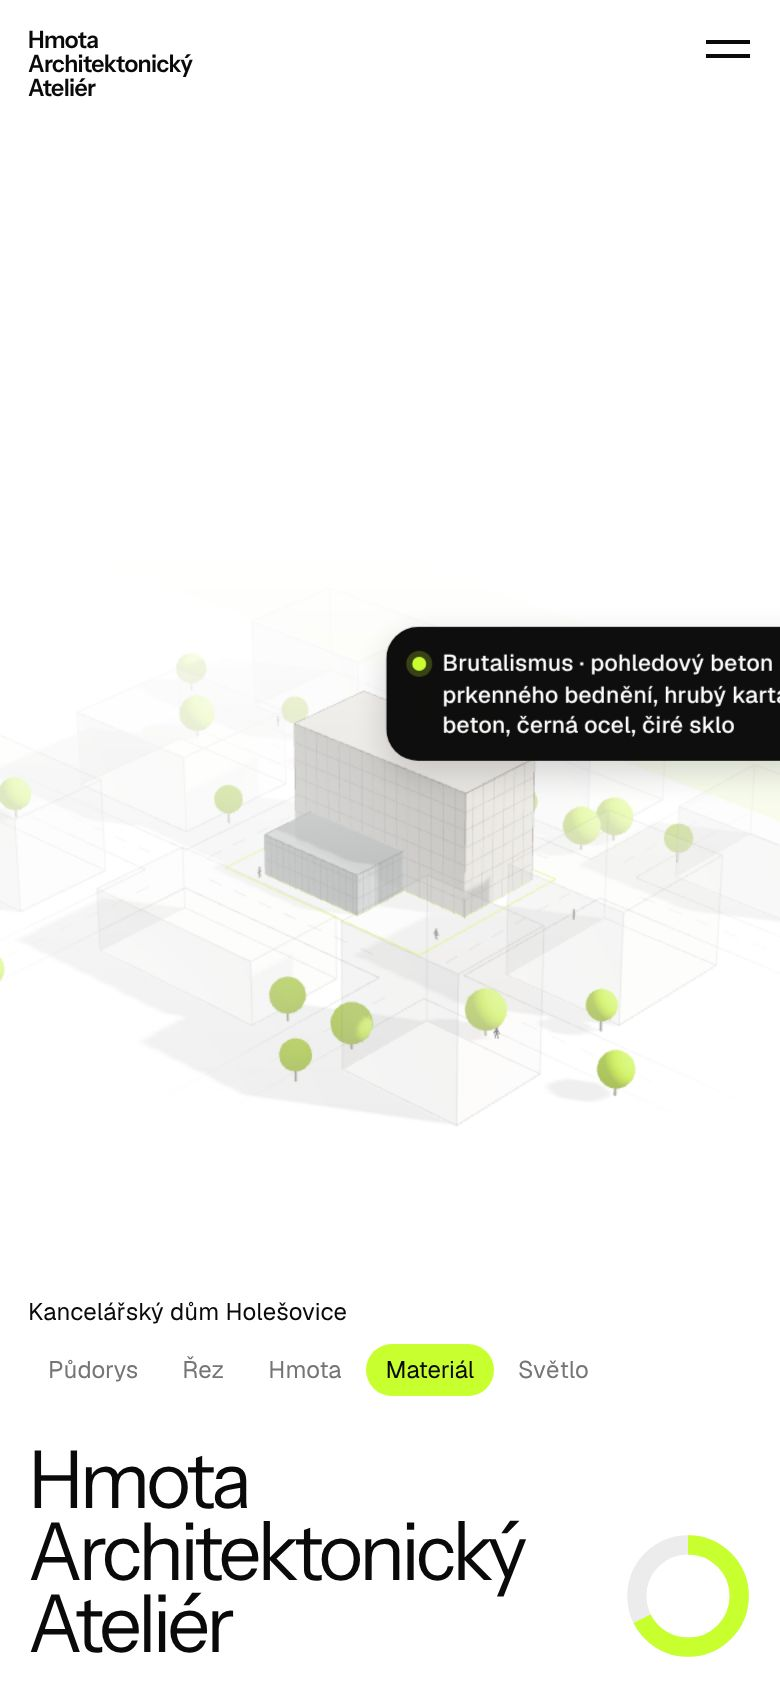
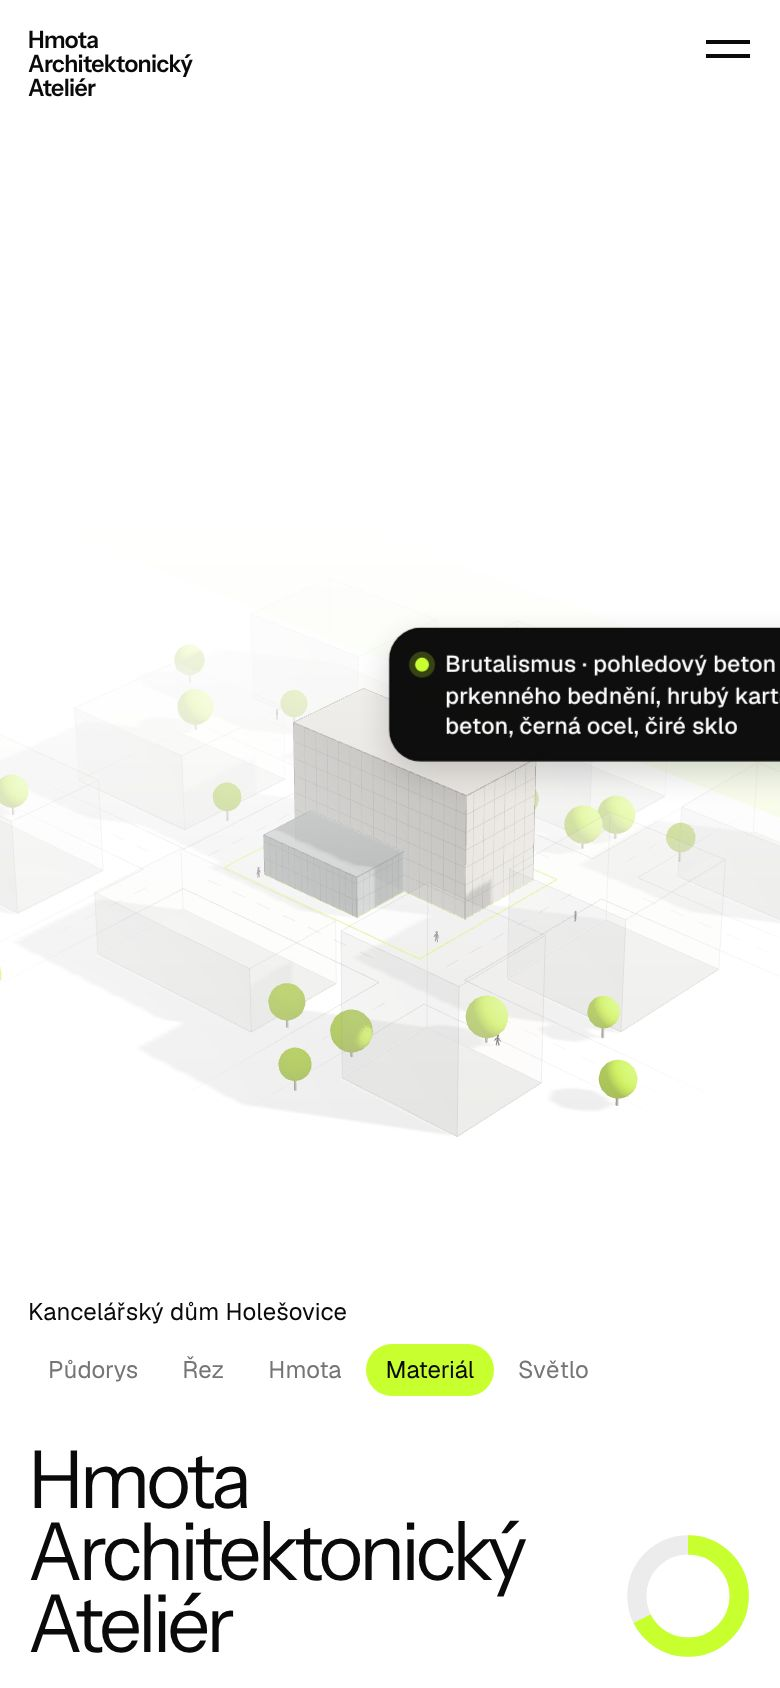
Hero: short loader while the 3D warms up; sharper; shadows cover the street
- Replace the stand-in stills with a brief loader (lime ring) that holds
  the page at the top while the 3D loads and plays every stage once behind
  it, so all shaders, shadow and material variants are compiled before the
  first scroll: no first-time stutter. Lifts after 12 s at most.
- Render at up to 2x device pixel ratio
- Shadow frustum ±46 with a 4096 map (2048 on phones): shadows no longer
  end in a white band near the edge of the view

Claude-Session: https://claude.ai/code/session_01Tmbk2gHDA56J7bBaFsfwrH

diff --git a/src/components/hero/HeroScene.tsx b/src/components/hero/HeroScene.tsx
@@ -647,7 +647,14 @@ function Site({ massing, stages }: { massing: Volume[]; stages: MutableRefObject
   );
 }
 
-function Rig({ progress }: { progress: MutableRefObject<number> }) {
+function Rig({
+  progress,
+  snap,
+}: {
+  progress: MutableRefObject<number>;
+  /** while true the camera jumps straight to its target (warm-up behind the loader) */
+  snap: MutableRefObject<boolean>;
+}) {
   const { camera, size, invalidate } = useThree();
   // portrait screens need the camera further back to keep the building in frame
   const aspect = size.width / Math.max(1, size.height);
@@ -662,7 +669,8 @@ function Rig({ progress }: { progress: MutableRefObject<number> }) {
     const t1 = easeIO(range(p, 0.18, 0.46));
     const t2 = easeIO(range(p, 0.78, 1));
     tmp.copy(top).lerp(axo, t1).lerp(close, t2).multiplyScalar(fit);
-    camera.position.lerp(tmp, 0.12);
+    if (snap.current) camera.position.copy(tmp);
+    else camera.position.lerp(tmp, 0.12);
     if (camera.position.distanceToSquared(tmp) > 1e-6) invalidate();
     look.set(0, 0.6 * t1 + 0.4 * t2, 0);
     camera.lookAt(look);
@@ -717,13 +725,14 @@ function Sun({
       ref={light}
       castShadow
       intensity={1.2}
-      shadow-mapSize-width={small ? 1024 : 1536}
-      shadow-mapSize-height={small ? 1024 : 1536}
-      shadow-camera-left={-24}
-      shadow-camera-right={24}
-      shadow-camera-top={24}
-      shadow-camera-bottom={-24}
-      shadow-camera-far={80}
+      shadow-mapSize-width={small ? 2048 : 4096}
+      shadow-mapSize-height={small ? 2048 : 4096}
+      shadow-camera-left={-46}
+      shadow-camera-right={46}
+      shadow-camera-top={46}
+      shadow-camera-bottom={-46}
+      shadow-camera-near={0.5}
+      shadow-camera-far={140}
       shadow-bias={-0.00025}
       shadow-normalBias={0.004}
     />
@@ -731,18 +740,41 @@ function Sun({
 }
 
 /** turns scroll progress (plus a short intro on load) into the five stage values */
+// behind the loader the scene plays every stage once, so every shader, shadow and material
+// variant is compiled before the visitor can scroll: no first-time stutter later
+const WARM = [0.12, 0.3, 0.45, 0.55, 0.62, 0.7, 0.8, 0.9, 1, 0.5, 0];
+
 function Driver({
   progress,
   stages,
+  snap,
+  onReady,
 }: {
   progress: MutableRefObject<number>;
   stages: MutableRefObject<Stages>;
+  snap: MutableRefObject<boolean>;
+  onReady?: () => void;
 }) {
-  // on load the plan simply fades in (0.5 s); if the visitor already scrolled, the canvas fade
-  // is the whole intro and the model shows straight at the stage they scrolled to
-  const intro = useRef(progress.current > 0.02 ? 1 : 0);
+  const intro = useRef(0);
   const last = useRef(-1);
+  const warm = useRef(0);
+  const real = useRef(0);
   useFrame(({ gl, invalidate }, dt) => {
+    if (warm.current <= WARM.length) {
+      if (warm.current === 0) real.current = progress.current;
+      if (warm.current < WARM.length) {
+        progress.current = WARM[warm.current]!;
+        intro.current = 1;
+      } else {
+        // done: back to where the page really is, intro from the start, camera in place
+        progress.current = real.current;
+        intro.current = 0;
+        snap.current = false;
+        onReady?.();
+      }
+      warm.current++;
+      invalidate();
+    }
     if (intro.current < 1) {
       intro.current = Math.min(1, intro.current + Math.min(dt, 0.05) / 0.5);
       invalidate();
@@ -775,6 +807,7 @@ function Driver({
 }
 
 function HeroScene({ massing, labels, progress, active, onReady, onTime, kick }: HeroSceneProps) {
+  const snap = useRef(true);
   const stages = useRef<Stages>({
     draw: 0,
     main: 0,
@@ -792,7 +825,7 @@ function HeroScene({ massing, labels, progress, active, onReady, onTime, kick }:
     <Canvas
       className="hero-canvas"
       shadows
-      dpr={[1, 1.5]}
+      dpr={[1, 2]}
       frameloop={active ? "demand" : "never"}
       camera={{ fov: 30, near: 0.1, far: 300, position: [0.001, 30, 0.6] }}
       gl={{ antialias: true, alpha: false, powerPreference: "high-performance" }}
@@ -803,17 +836,16 @@ function HeroScene({ massing, labels, progress, active, onReady, onTime, kick }:
         gl.toneMapping = THREE.NeutralToneMapping;
         gl.shadowMap.autoUpdate = false;
         gl.shadowMap.needsUpdate = true;
-        onReady?.();
       }}
       aria-hidden="true"
     >
-      <Driver progress={progress} stages={stages} />
+      <Driver progress={progress} stages={stages} snap={snap} onReady={onReady} />
       <hemisphereLight args={["#ffffff", "#dcdcd6", 1.4]} />
       <Sun stages={stages} onTime={onTime} />
       <Ground stages={stages} />
       <Site massing={massing} stages={stages} />
       <Building massing={massing} stages={stages} labels={labels} />
-      <Rig progress={progress} />
+      <Rig progress={progress} snap={snap} />
     </Canvas>
   );
 }

diff --git a/src/components/hero/HeroModel.tsx b/src/components/hero/HeroModel.tsx
@@ -11,16 +11,11 @@ import {
 } from "react";
 import type { Volume } from "@/content/schema";
 import { ScrollTrigger, useGSAP, prefersReducedMotion } from "@/lib/motion";
+import { lockScroll } from "@/lib/scroll";
 
 const HeroScene = dynamic(() => import("./HeroScene"), { ssr: false });
 // start fetching the 3D as soon as this module runs, not after the page has hydrated
 if (typeof window !== "undefined") void import("./HeroScene");
-
-const BASE = process.env.NEXT_PUBLIC_BASE_PATH ?? "";
-/** stills of the scene at 0 %, 10 % … 100 % of the scroll (scripts/hero-frames.py) */
-const frameSrc = (kind: "d" | "m", i: number) =>
-  `${BASE}/hero/${kind}${String(i).padStart(2, "0")}.webp`;
-const FRAME_HTML = `<picture><source media="(max-width: 767px)" srcset="${frameSrc("m", 0)}"><img src="${frameSrc("d", 0)}" alt="" decoding="async" fetchpriority="high"></picture><script>(function(){try{history.scrollRestoration="manual"}catch(e){}var t=function(){window.__heroTouched=1};["wheel","touchmove","keydown"].forEach(function(e){addEventListener(e,t,{passive:true,once:true})});var s=document.currentScript,h=s.closest(".hero"),img=s.previousElementSibling.querySelector("img"),so=s.previousElementSibling.querySelector("source"),last=0;function u(){var span=h.offsetHeight-innerHeight;var p=Math.min(1,Math.max(0,(scrollY-h.offsetTop)/span));var i=Math.round(p*10);if(i===last)return;last=i;var n=(i<10?"0":"")+i;img.src="${BASE}/hero/d"+n+".webp";so.srcset="${BASE}/hero/m"+n+".webp"}addEventListener("scroll",u,{passive:true});u()})()</script>`;
 
 const STAGES = [
   { at: 0, label: "Půdorys" },
@@ -86,6 +81,11 @@ export function HeroModel({ massing, poster, title, projectName }: Props) {
   const [enabled, setEnabled] = useState(false);
   const [ready, setReady] = useState(false);
   const onReady = useCallback(() => setReady(true), []);
+  useEffect(() => {
+    if (!ready) return;
+    delete document.documentElement.dataset.heroLoading;
+    lockScroll(false);
+  }, [ready]);
   const [active, setActive] = useState(true);
   const [stage, setStage] = useState(0);
   const [hour, setHour] = useState(7);
@@ -96,20 +96,20 @@ export function HeroModel({ massing, poster, title, projectName }: Props) {
   useEffect(() => {
     // a reload always starts the build from the beginning, not from a restored scroll position
     if ("scrollRestoration" in history) history.scrollRestoration = "manual";
-    // never pull back a visitor who already started scrolling while the page loaded
-    if (!(window as Window & { __heroTouched?: number }).__heroTouched) window.scrollTo(0, 0);
+    window.scrollTo(0, 0);
     // load the 3D straight away (not "when idle": idle never comes while the visitor scrolls)
     if (isStill()) return;
     void import("./HeroScene");
-    // warm the stills too (~25 kB each), so a fast scroll finds every one of them ready
-    const kind = window.matchMedia("(max-width: 767px)").matches ? "m" : "d";
-    const warm = window.setTimeout(() => {
-      for (let i = 1; i <= 10; i++) new Image().src = frameSrc(kind, i);
-    }, 300);
+    // hold the page at the top while the 3D warms up (released once it is ready)
+    document.documentElement.dataset.heroLoading = "true";
+    const lock = window.setTimeout(() => lockScroll(true), 0);
+    // never keep anyone waiting for long: lift the loader after 12 s whatever happens
+    const bail = window.setTimeout(() => setReady(true), 12000);
     const raf = requestAnimationFrame(() => setEnabled(true));
     return () => {
       cancelAnimationFrame(raf);
-      window.clearTimeout(warm);
+      window.clearTimeout(lock);
+      window.clearTimeout(bail);
     };
   }, []);
 
@@ -187,15 +187,12 @@ export function HeroModel({ massing, poster, title, projectName }: Props) {
           {still ? poster : null}
         </div>
         {!still && (
-          // while the 3D loads, a still of the scene at the current scroll point stands in for
-          // it, so scrolling straight away never shows an empty screen; the canvas fades in over it
-          <div
-            className="hero-frame"
-            data-ready={ready}
-            // React never touches the inside: the inline script swaps the still from first paint,
-            // long before the page's JavaScript (and the 3D) have loaded
-            dangerouslySetInnerHTML={{ __html: FRAME_HTML }}
-          />
+          // until the 3D is loaded and has played every stage once behind it, a short loader
+          // holds the page: when it lifts, the animation is ready and scrolls without a hitch
+          <div className="hero-loader" data-done={ready} aria-hidden={ready}>
+            <span className="hero-loader-ring" />
+            <span className="sr-only">Načítání</span>
+          </div>
         )}
         {enabled && (
           <HeroScene

diff --git a/src/app/globals.css b/src/app/globals.css
@@ -721,26 +721,45 @@ html[data-leaving="true"] body::before {
 .hero-canvas {
   position: absolute;
   inset: 0;
-  animation: hero-canvas-in 500ms var(--ease-out) both;
 }
 @keyframes hero-canvas-in {
   from {
     opacity: 0;
   }
 }
-.hero-frame {
-  position: absolute;
+/* loader: white, a turning lime ring; lifts once the 3D has warmed up behind it */
+html[data-hero-loading="true"],
+html[data-hero-loading="true"] body {
+  overflow: hidden;
+}
+.hero-loader {
+  position: fixed;
   inset: 0;
-  transition: opacity 400ms var(--ease-out) 600ms; /* gone once the canvas has faded in */
+  z-index: 70;
+  display: grid;
+  place-items: center;
+  background: var(--paper);
+  transition:
+    opacity 600ms var(--ease-out),
+    visibility 0s 600ms;
+}
+.hero-loader[data-done="true"] {
+  opacity: 0;
+  visibility: hidden;
   pointer-events: none;
 }
-.hero-frame img {
-  width: 100%;
-  height: 100%;
-  object-fit: cover;
+.hero-loader-ring {
+  width: 64px;
+  height: 64px;
+  border-radius: 50%;
+  border: 6px solid rgb(10 10 10 / 0.08);
+  border-top-color: var(--lime);
+  animation: hero-spin 900ms linear infinite;
 }
-.hero-frame[data-ready="true"] {
-  opacity: 0;
+@keyframes hero-spin {
+  to {
+    transform: rotate(360deg);
+  }
 }
 .hero-canvas {
   z-index: 0;
